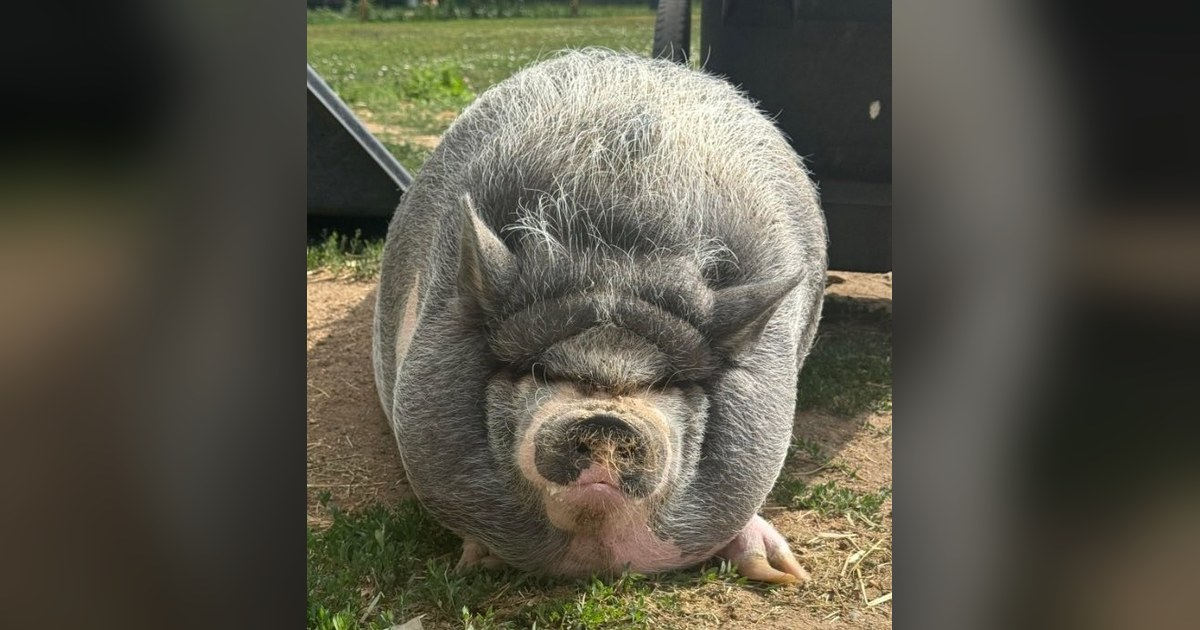
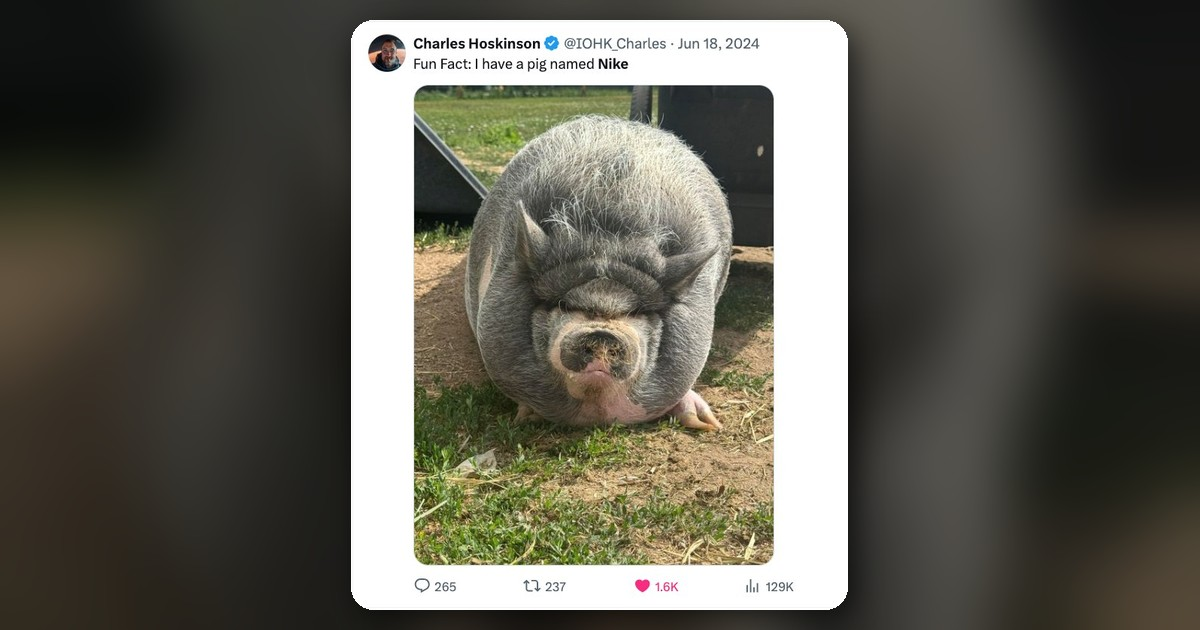
Homepage share card: use Charles's 'I have a pig named Nike' tweet screenshot

diff --git a/index.html b/index.html
@@ -17,15 +17,15 @@
 <meta property="og:title" content="$NIKEPIG | The OG Pig of Cardano">
 <meta property="og:description" content="Charles Hoskinson's legendary pet pig Nike, now immortalized on the Cardano blockchain.">
 <meta property="og:url" content="https://nikepig.com/">
-<meta property="og:image" content="https://nikepig.com/assets/art/og-nikepig.jpg?v=1">
+<meta property="og:image" content="https://nikepig.com/assets/art/og-nikepig.jpg?v=2">
 <meta property="og:image:width" content="1200">
 <meta property="og:image:height" content="630">
-<meta property="og:image:alt" content="Nike the pig">
+<meta property="og:image:alt" content="Charles Hoskinson tweet: Fun Fact: I have a pig named Nike">
 <meta name="twitter:card" content="summary_large_image">
 <meta name="twitter:site" content="@NikePig_ADA">
 <meta name="twitter:title" content="$NIKEPIG | The OG Pig of Cardano">
 <meta name="twitter:description" content="Charles Hoskinson's legendary pet pig Nike, now immortalized on the Cardano blockchain.">
-<meta name="twitter:image" content="https://nikepig.com/assets/art/og-nikepig.jpg?v=1">
+<meta name="twitter:image" content="https://nikepig.com/assets/art/og-nikepig.jpg?v=2">
 <link rel="preload" as="image" href="assets/art/bg-16x9-mobile.webp" media="(max-width:768px)" fetchpriority="high">
 <link rel="preload" as="image" href="assets/art/bg-16x9.webp" media="(min-width:769px)" fetchpriority="high">
 <link rel="preload" as="image" href="assets/art/comic-cover-manga.webp">

diff --git a/docs/branch-log.md b/docs/branch-log.md
@@ -153,5 +153,5 @@ Playwright).
   `summary_large_image` tags pointing at it (absolute https URL).
 - Same day: C15/C16 catalogue entries; Massive Rocket card kept but its Sign Up button removed; Instagram,
   Facebook, TikTok and YouTube links (Simple Icons glyphs) added to the hero row and Join the Herd.
-- Homepage share card: `assets/art/og-nikepig.jpg` (1200x630) = the Nike hero photo (the original-tweet photo)
-  at full height over a blurred fill of itself; Open Graph + Twitter tags added to `index.html`.
+- Homepage share card: `assets/art/og-nikepig.jpg` (1200x630) = Charles's Jun 18 2024 "Fun Fact: I have a pig named
+  Nike" tweet screenshot (`assets/tweets/tweet-01-jun18-fun-fact.png`) centred over a blurred Nike photo; Open Graph + Twitter tags added to `index.html`.
